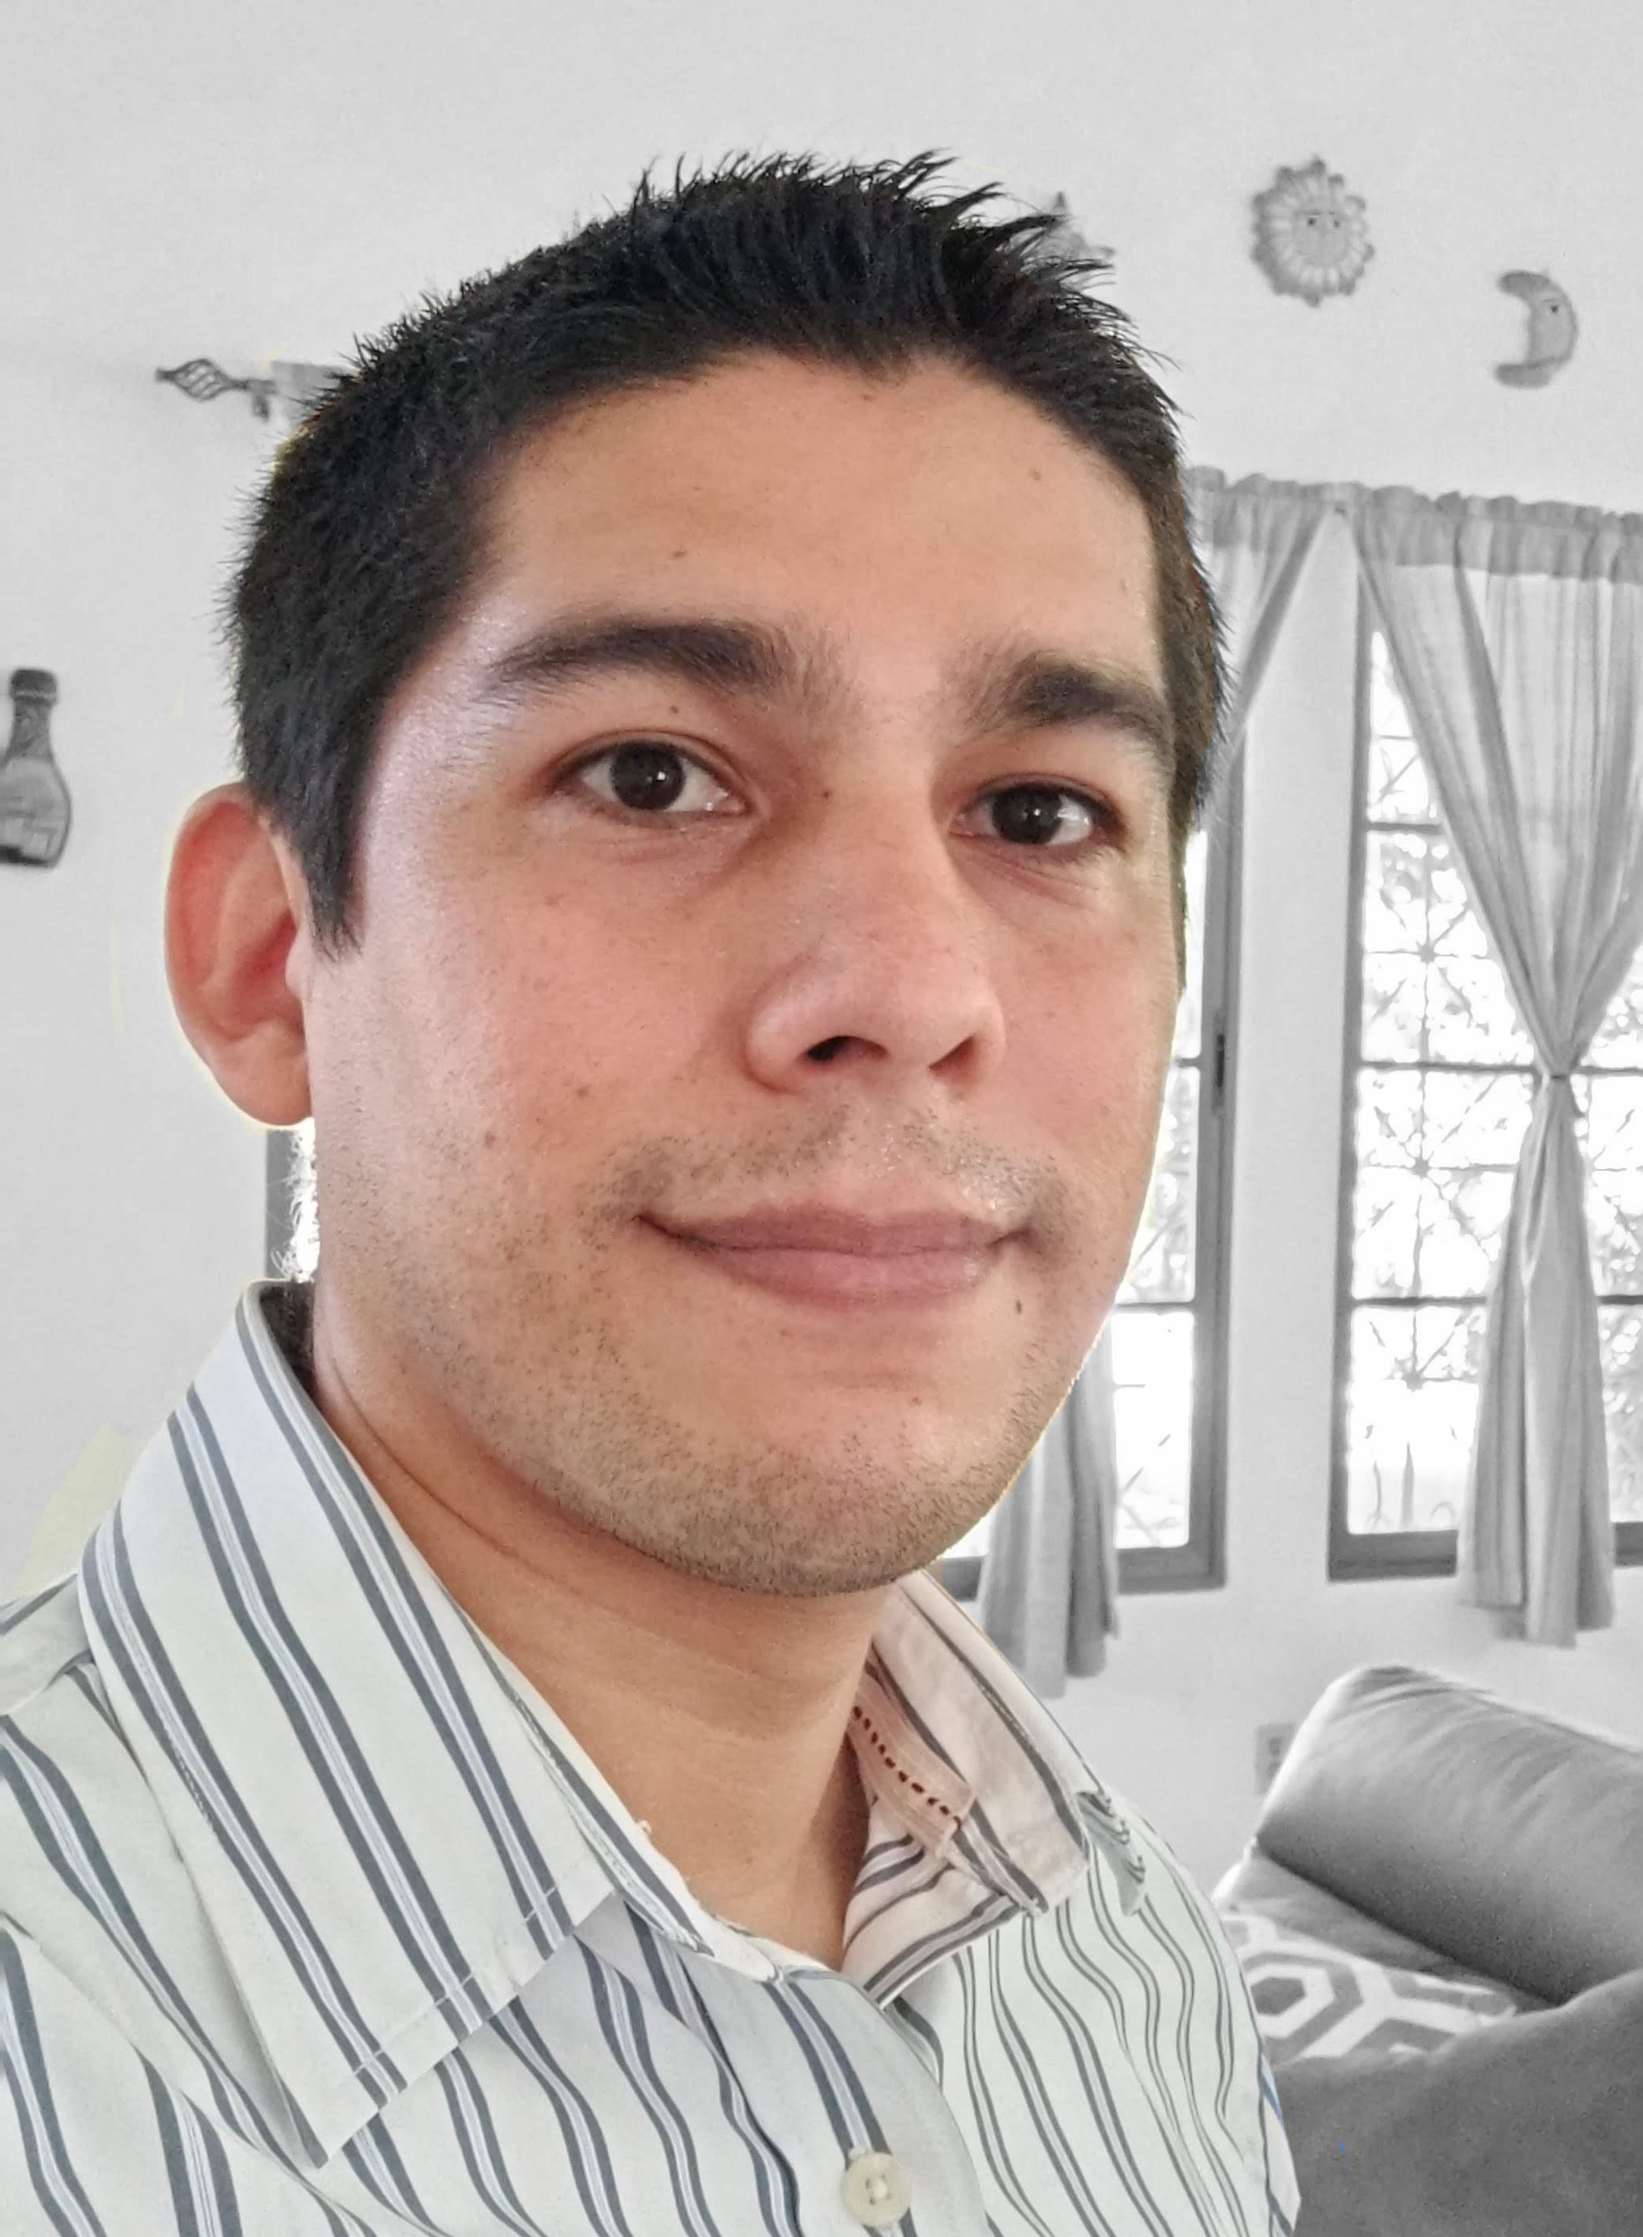
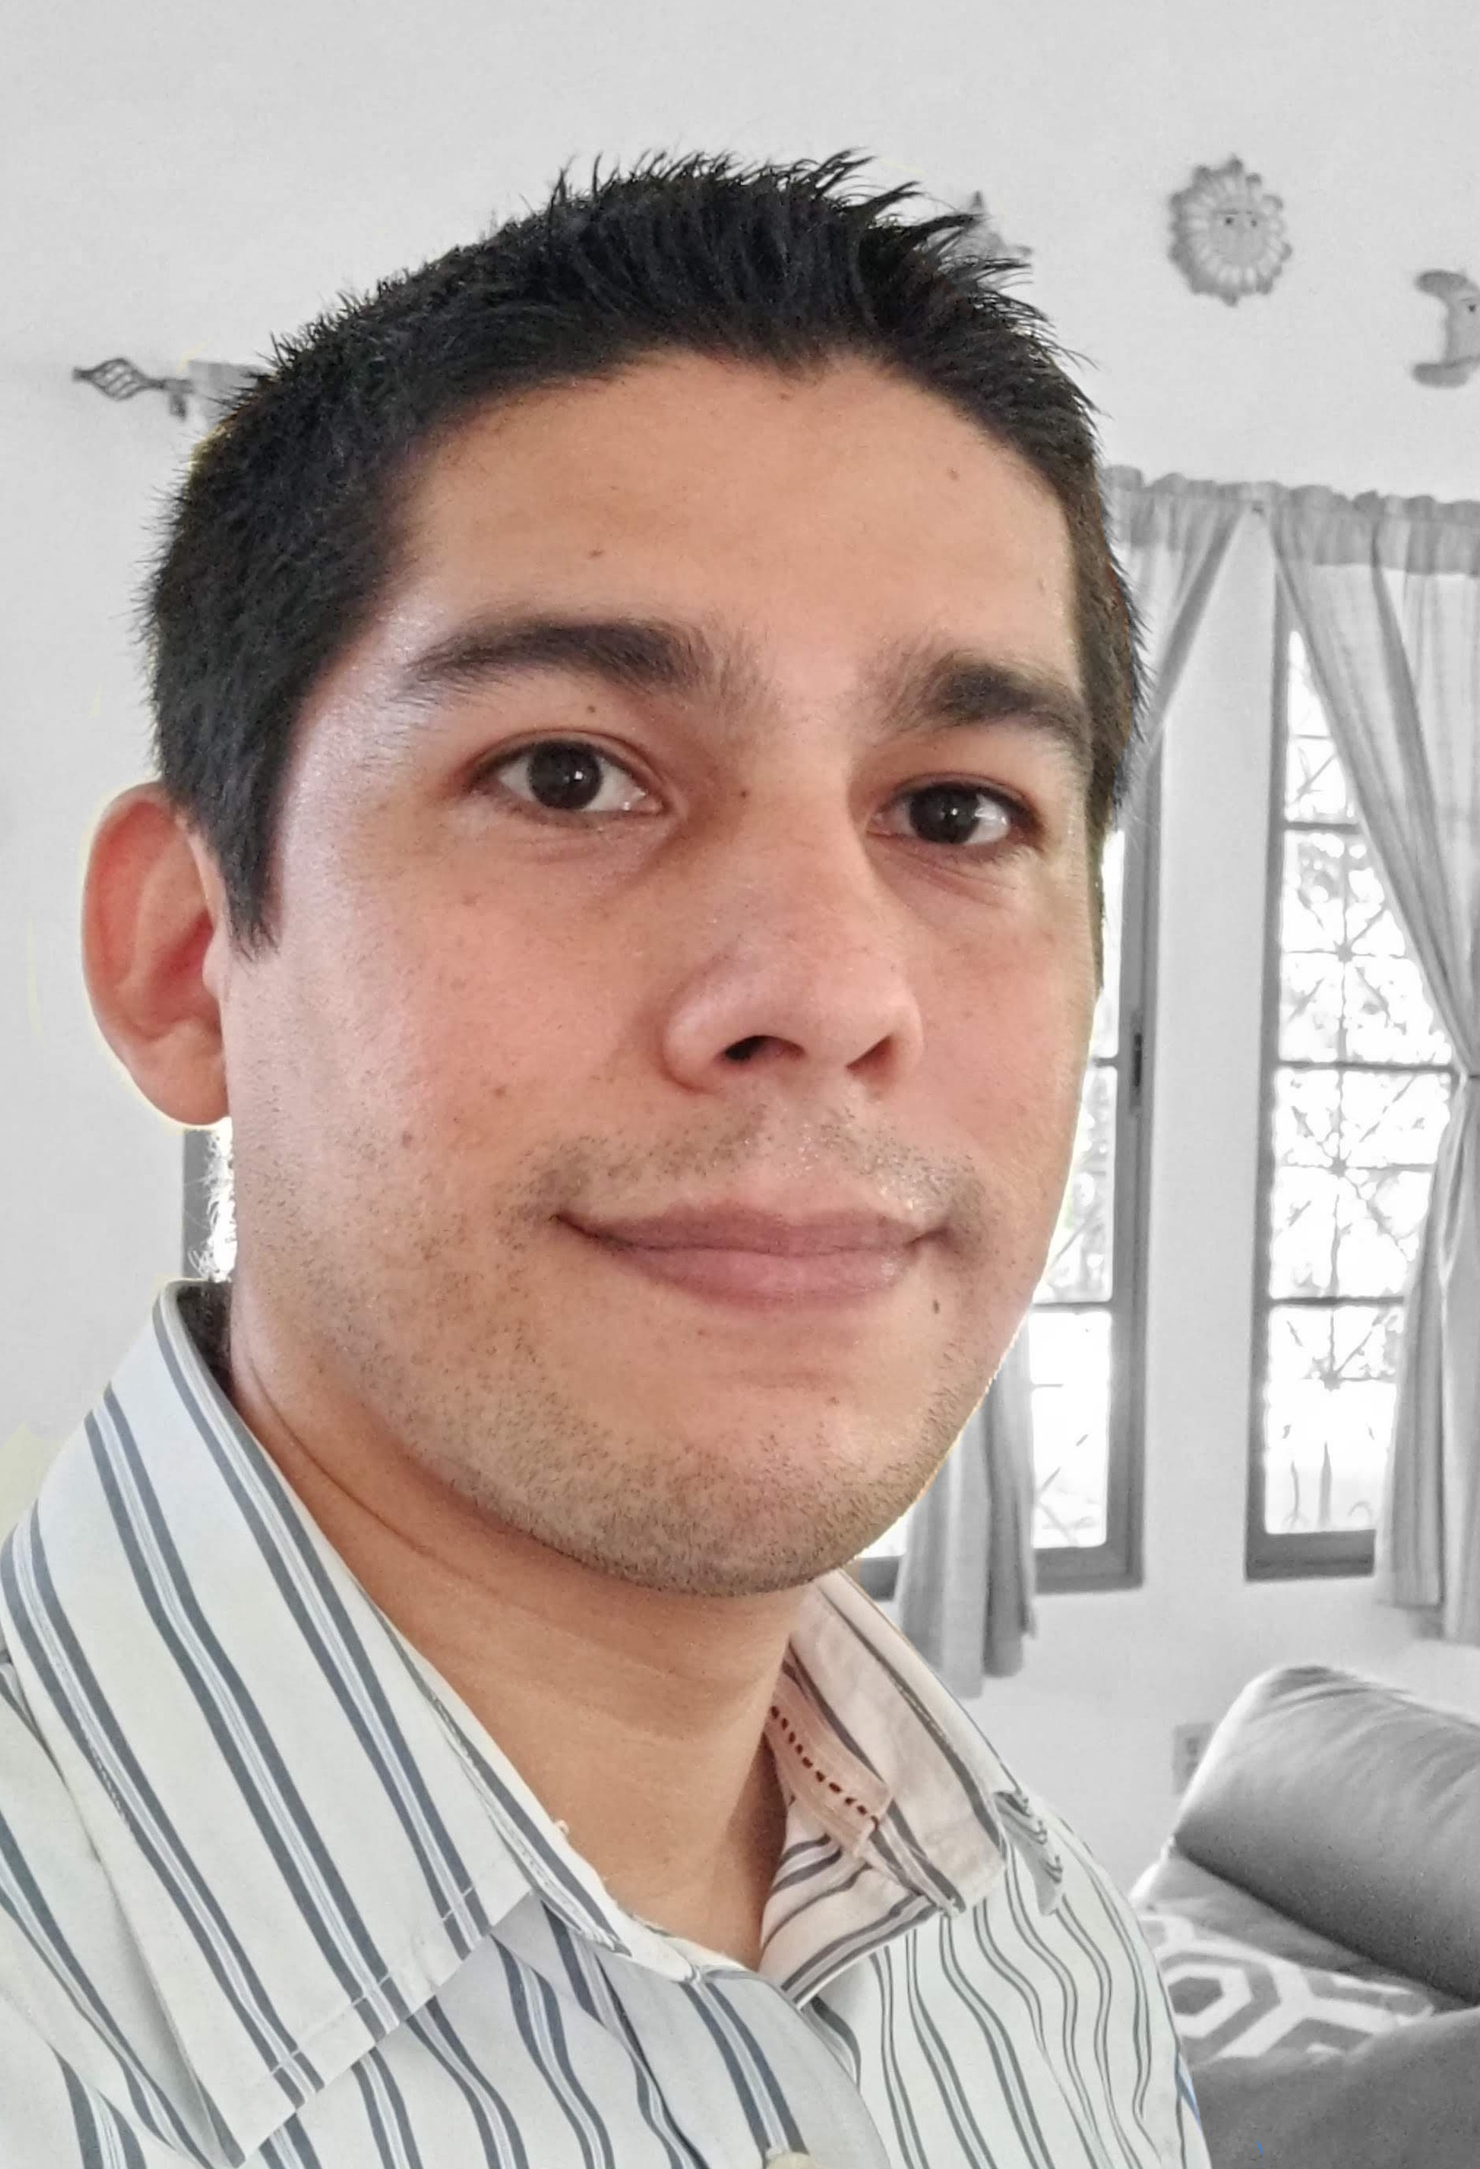
update the html,css and media
update the code

diff --git a/style.css b/style.css
@@ -1,3 +1,10 @@
+:root {
+  --main-Dawn: #A4a29e;
+  --main-Chambray: #36498F ;
+  --main-JellyBean: #2D7C9D;
+  --main-Bunker: #161D20;
+  --main-silver:#cccccc;
+}
 * {
   margin: 0;
   padding: 0;
@@ -22,6 +29,8 @@ html {
 }
 
 
+
+
 @media only screen and (min-width:769px){
     *{
      margin:0px;
@@ -29,68 +38,84 @@ html {
      font-family: 'roboto';
      
      }
-     section{
-     height:100vh;
-     max-width:100%;
-   }
-   .welcome-section{
+  
+  
+.nav {
+  position:fixed;
+  display:flex;
+  top:0;
+  left:0;
+  width:100%;
+  height:80px;
+  background-color: #2d7c9d	;
+  justify-content: flex-end;
+}
+.nav > ul{
+  display:flex;
+  flex-direction: row;
+  
+  align-items: center;
+}
+
+.nav > ul> li{
+  width:150px;
+  font-size: 1.8rem;
+
+}
+.nav> ul> li> a{
+ color: var(--main-silver);
+}
+
+li{
+  list-style: none;
+}
+
+a{
+  text-decoration: none;
+  }
+
+section{
+    height:100vh;
+    max-width:100%;
+  }   
+
+ .welcome-section{
      
-     background-color: #161d20;
+     background-color: var(--main-Bunker);
      padding:0px;
-     color:#cccccc;
      display: flex;
      flex-direction: column;
      justify-content: center;
      align-items: center;
    }
-     .welcome-section > div> h1{
-       color: #36498f ;
+
+  .welcome-section > div> img {
+    width: 250px;
+    border-radius:30px;
+    height:auto;
+  }
+  
+  
+  
+   .welcome-section > h1{
+       color: var(--main-Chambray);
        font-size:40px;
        
      }
-     .welcome-section > div > h2{
-       color: #2d7c9d;
+   .welcome-section  > h2{
+       color: var(--main-JellyBean);
      } 
-     #projects {
-       background-color: #36498f;
-     padding:20px;
-     color:#cccccc;
-     }
-     #contact {
-        background-color: #a4a29e;
-     padding:20px;
-     color:#cccccc;
-     }
-   nav {
-     position:fixed;
-     display:flex;
-     top:0;
-     left:0;
-     width:100%;
-     height:80px;
-     background-color: #2d7c9d	;
-     justify-content: flex-end;
-   }
-   nav > ul{
-     display:flex;
-     flex-direction: row;
+   .projects {
+     background-color: #36498f;
+     padding:80px;
+     color:var(--main-silver);
      
-     align-items: center;
-   }
-   li{
-     list-style: none;
-   }
-   nav > ul> li{
-     width:150px;
-     font-size: 1.8rem;
-   
-   }
-   
-   
-   a{
-     text-decoration: none;
-     color: #cccccc;
-   }
+     }
+   .contact {
+     background-color: var(--main-Dawn);
+     padding:80px;
+     color:var(--main-Bunker);
+     }
    
    }
    
@@ -100,36 +125,82 @@ html {
      padding:0px;
        font-family: 'roboto';
      }
-     section{
-     height:100vh;
-     max-width:100%;
-   }
+      
+.nav {
+  position:fixed;
+  display:flex;
+  top:0;
+  left:0;
+  width:100%;
+  height:80px;
+  background-color: #2d7c9d	;
+  justify-content: flex-end;
+}
+
+.nav > ul{
+  display:flex;
+  flex-direction: row;
+  
+  align-items: center;
+}
+
+.nav > ul> li{
+  width:150px;
+  font-size: 1.8rem;
+
+}
+.nav> ul> li> a{
+ color: var(--main-silver);
+}
+
+li{
+  list-style: none;
+}
+
+a{
+  text-decoration: none;
+  }
+
+section{
+    height:100vh;
+    max-width:100%;
+  }
+   
      .welcome-section{
-     
-     background-color: #161d20;
+     background-color: var(--main-Bunker);
      padding:0px;
-     color:#cccccc;
      display: flex;
      flex-direction: column;
      justify-content: center;
      align-items: center;
    }
-     .welcome-section > div> h1{
-       color: #36498f ;
+  .welcome-section > div> img {
+    width: 200px;
+    border-radius:30px;
+    height:auto;
+  }
+   
+  
+     .welcome-section > h1{
+       margin-top:20px;
+       color: var(--main-Chambray)  ;
        font-size:25px;
        
      }
-     .welcome-section > div > h2{
-       color: #2d7c9d;
-     } 
-     #projects {
-       background-color: #2d7c9d;
-     padding:15px;
-     color:#cccccc;
+     .welcome-section  > h2{
+       color:var(--main-JellyBean) ; 
+       font-size:15px;
      }
-     #contact {
-        background-color: #a4a29e;
-     padding:20px;
-     color:#cccccc;
+     .projects {
+     background-color: var(--main-Chambray);
+     padding:80px 0px 80px 0;
+     color:var(--main-silver);
      }
+     .contact {
+     background-color: var(--main-silver) ;
+     padding:80px 0px 80px 0;
+     color:var(--main-Bunker);
+     }
+     
+     
     }

diff --git a/index.html b/index.html
@@ -10,34 +10,37 @@
     <title>Erick's Portfolio</title>
 </head>
 <body>
-    <nav id="navbar">
-        <ul>
-            <li><a href="#welcome-section">About</a></li>
-            <li><a href="#projects">Work</a></li>
-            <li><a href="#contact">Contact</a></li>
-        </ul>
-    </nav>
-    <section id="welcome-section" class="welcome-section" >
-        <img src="">
-        <div>
-         <h1>Hi, I'm Erick Narvaez</h1>
-        <h2>a starting web developer</h2>
-         <div>
-    </section>
-    <section id="projects">
-        <h2>These are some of my projects</h2>
-    <a href="https://codepen.io/ggquicky/full/MWEazqZ" class="project-tile">
-      <img src="">
-      
-      <p><span class="code"><</span>Tribute Page <span class="code"> /> </span> </p>
-    <a>
-    </section>
-        
-<section id="contact">
- <h1>Let's work together!!</h1> 
- <p>How do you take your coffee?</p>
+    
+ <nav id="navbar" class="nav">
+    <ul>
+        <li><a href="#welcome-section">About</a></li>
+        <li><a href="#projects">Work</a></li>
+        <li><a href="#contact">Contact</a></li>
+    </ul>
+</nav>
+<section id="welcome-section" class="welcome-section" >
+    <div>
+    <img src="../WebPortafolio/Media Files/profile.jpg">
+    </div>
+     <h1>Hi, I'm Erick Narvaez</h1>
+    <h2>a starting web developer</h2>
+    
+</section>
+<section id="projects" class="projects">
+    <h2>These are some of my projects</h2>
+<a href="https://codepen.io/ggquicky/full/MWEazqZ" class="project-tile">
+  <img src="">
   
-  <a id="profile-link" href="https://github.com/ggquicky" target="_blank">Github</a>
+  <p><span class="code"><</span>Tribute Page <span class="code"> /> </span> </p>
+<a>
+</section>
+    
+<section id="contact" class="contact">
+<h1>Let's work together!!</h1> 
+<p>How do you take your coffee?</p>
+
+<a id="profile-link" href="https://github.com/ggquicky" target="_blank">Github</a>
 </section>  
+
 </body>
 </html>
